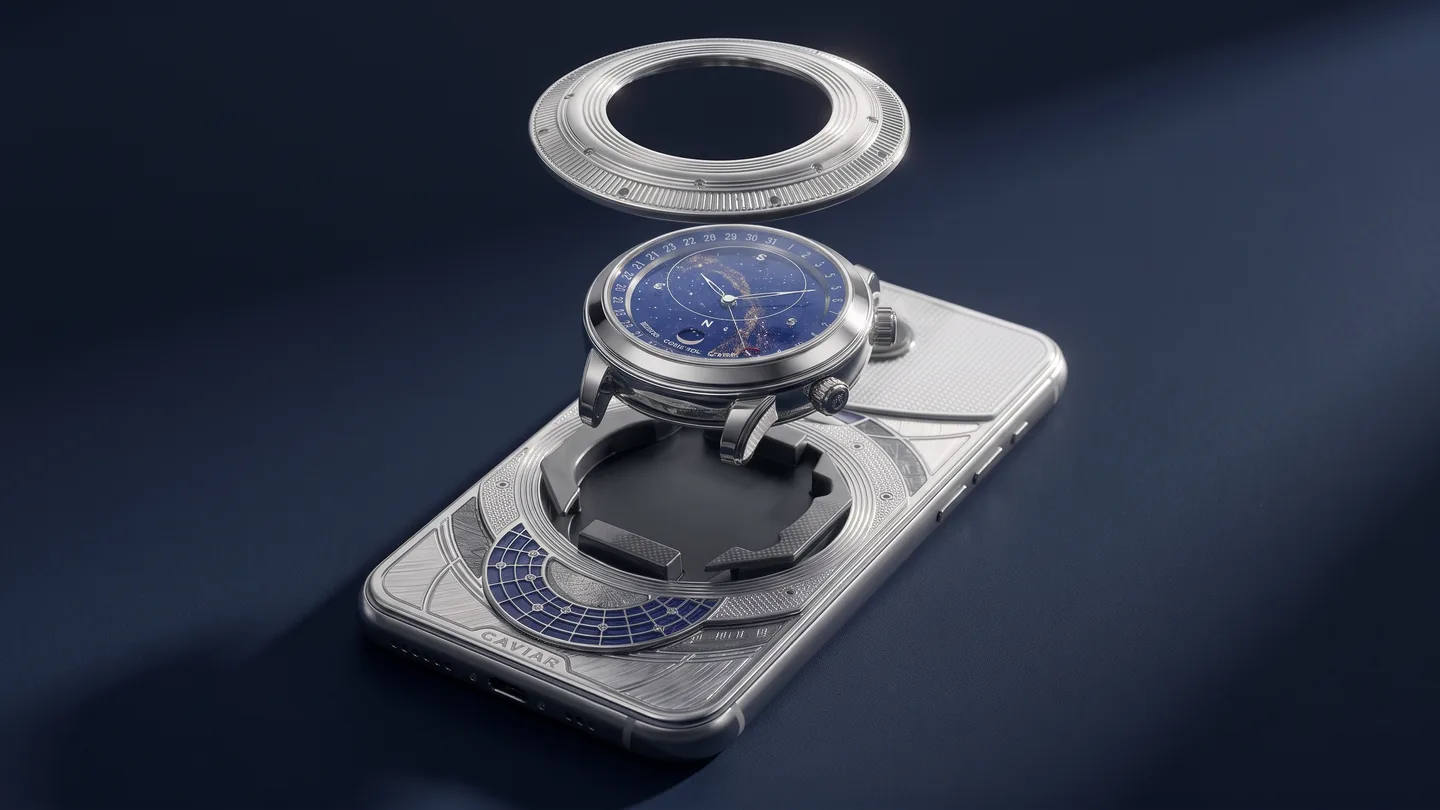
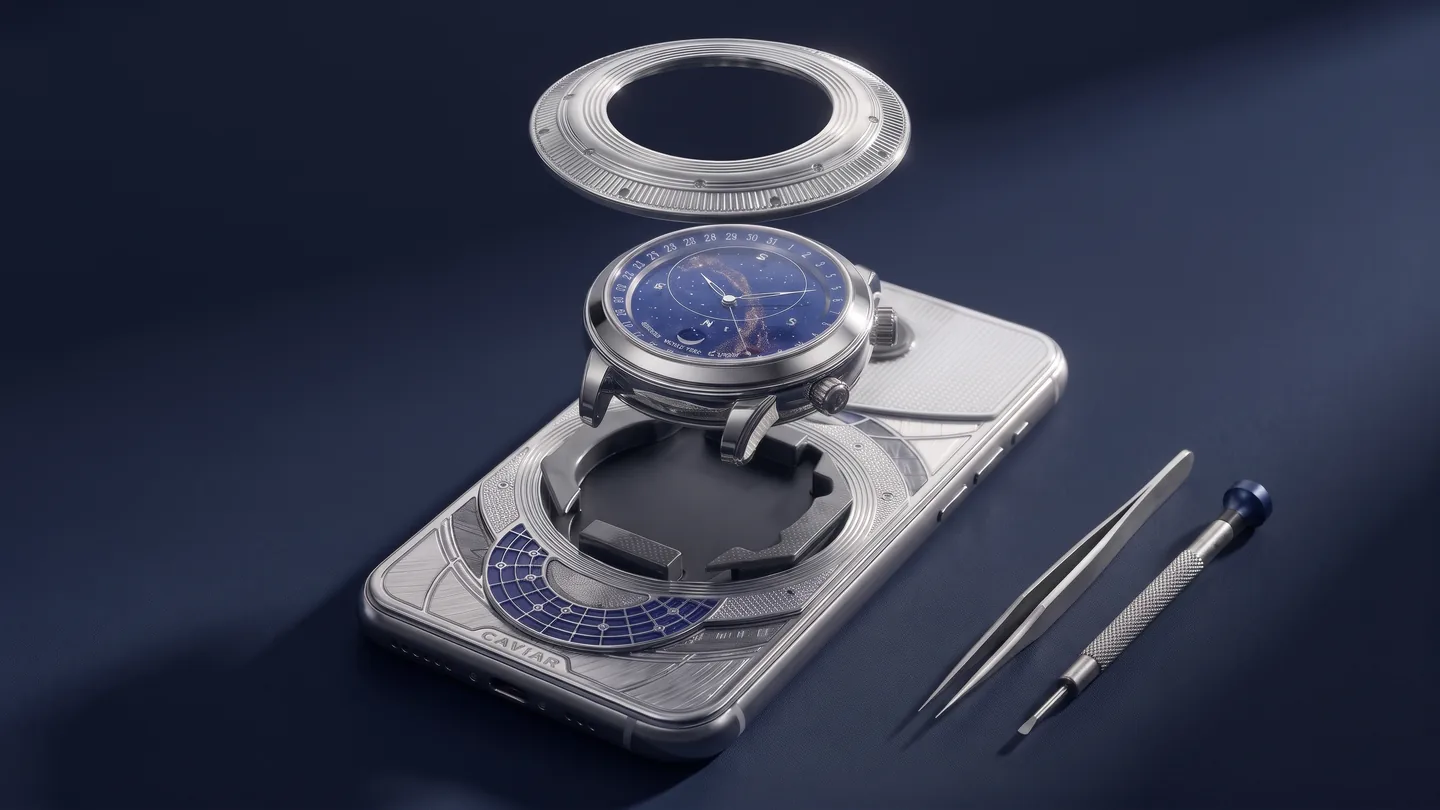
Add watchmaker tools and specify the holiday gift certificate

diff --git a/holiday-privileges-2026/index.html b/holiday-privileges-2026/index.html
@@ -22,7 +22,7 @@
 .catalog-card span{font-size:13px;font-weight:700;text-decoration:underline}
 .catalog-card:hover{border-color:var(--gold)}
 .catalog-link{margin-top:24px;display:flex;justify-content:center}.bespoke{display:grid;grid-template-columns:1fr 1fr;min-height:370px;background:var(--navy);color:#fff}.bespoke-visual{position:relative;min-width:0;min-height:0;aspect-ratio:16/9;overflow:hidden;background:#101a2a}
-.bespoke-visual img{position:absolute;inset:0;width:100%;height:100%;object-fit:cover}.bespoke-copy{padding:clamp(35px,5vw,75px);align-self:center}.bespoke-copy .eyebrow{color:var(--gold-light);margin-bottom:12px}.bespoke-copy p:not(.eyebrow){color:#d6dbe2;margin:18px 0 25px;max-width:430px}.certificate{display:grid;grid-template-columns:1fr 1fr;gap:clamp(25px,5vw,80px);align-items:center}.certificate img{aspect-ratio:4/3;object-fit:cover}.certificate .eyebrow{margin-bottom:10px}.certificate p:not(.eyebrow){color:#62666c;max-width:470px;margin:16px 0 25px}.consult{background:var(--paper);text-align:center}.consult h2{margin:12px 0}.consult p:not(.eyebrow){max-width:600px;margin:auto;color:#656971}.contact-actions{display:flex;flex-wrap:wrap;justify-content:center;gap:12px;margin-top:25px}.terms{border-top:1px solid var(--line);margin-top:32px;text-align:left;max-width:800px;margin-inline:auto}.terms summary{padding:17px 0;font-weight:700;cursor:pointer;font-size:14px}.terms p{font-size:13px;max-width:none!important;text-align:left;margin-bottom:10px!important}.footer{display:flex;justify-content:space-between;align-items:center;gap:20px;padding:24px var(--pad);background:white;border-top:1px solid var(--line);font-size:12px;color:#666}.footer a{font-weight:700}.footer img{width:62px;height:50px;object-fit:contain}.skip{position:absolute;top:-100px;background:white;padding:10px;z-index:5}.skip:focus{top:5px}@media(max-width:880px){.header-nav{display:none}.section-heading{display:block}.section-heading>p{margin-top:13px}.gift-grid{gap:12px}.gift-body{padding:17px}.gift-body h3{font-size:22px}}@media(max-width:760px){.catalog-grid,.bespoke{grid-template-columns:1fr}}
+.bespoke-visual img{position:absolute;inset:0;width:100%;height:100%;object-fit:contain}.bespoke-copy{padding:clamp(35px,5vw,75px);align-self:center}.bespoke-copy .eyebrow{color:var(--gold-light);margin-bottom:12px}.bespoke-copy p:not(.eyebrow){color:#d6dbe2;margin:18px 0 25px;max-width:430px}.certificate{display:grid;grid-template-columns:1fr 1fr;gap:clamp(25px,5vw,80px);align-items:center}.certificate img{aspect-ratio:4/3;object-fit:cover}.certificate .eyebrow{margin-bottom:10px}.certificate p:not(.eyebrow){color:#62666c;max-width:470px;margin:16px 0 25px}.consult{background:var(--paper);text-align:center}.consult h2{margin:12px 0}.consult p:not(.eyebrow){max-width:600px;margin:auto;color:#656971}.contact-actions{display:flex;flex-wrap:wrap;justify-content:center;gap:12px;margin-top:25px}.terms{border-top:1px solid var(--line);margin-top:32px;text-align:left;max-width:800px;margin-inline:auto}.terms summary{padding:17px 0;font-weight:700;cursor:pointer;font-size:14px}.terms p{font-size:13px;max-width:none!important;text-align:left;margin-bottom:10px!important}.footer{display:flex;justify-content:space-between;align-items:center;gap:20px;padding:24px var(--pad);background:white;border-top:1px solid var(--line);font-size:12px;color:#666}.footer a{font-weight:700}.footer img{width:62px;height:50px;object-fit:contain}.skip{position:absolute;top:-100px;background:white;padding:10px;z-index:5}.skip:focus{top:5px}@media(max-width:880px){.header-nav{display:none}.section-heading{display:block}.section-heading>p{margin-top:13px}.gift-grid{gap:12px}.gift-body{padding:17px}.gift-body h3{font-size:22px}}@media(max-width:760px){.catalog-grid,.bespoke{grid-template-columns:1fr}}
 @media(max-width:650px){.site-header{height:68px}.brand img{width:60px;height:49px}
 .hero{min-height:0;flex-direction:column;background-position:right top}
 .hero::before{background:linear-gradient(0deg,#101925 0%,rgba(16,25,37,.94) 43%,transparent 85%)}
@@ -36,7 +36,7 @@
 <section class="hero" aria-labelledby="hero-title"><img class="hero-package" src="assets/holiday-hero-package.webp" alt="Смартфон Caviar в открытом синем футляре с фирменной подарочной упаковкой" width="966" height="1053" fetchpriority="high"><div class="hero-content"><p class="eyebrow">Caviar · Festive Season 2026</p><h1 id="hero-title">Новогодние<br>привилегии</h1><p class="lead">В этом декабре Caviar дарит больше.</p><p class="intro">Приобретите смартфон Caviar и выберите один из подарков, подготовленных к праздничному сезону.</p><a class="btn gold" href="#gifts">Выбрать подарок</a><p class="dates">С 1 по 31 декабря 2026 года*</p></div></section>
 <nav class="subnav" aria-label="Разделы страницы"><a href="#gifts">Подарки на выбор</a><a href="#catalog">Рекомендации Caviar</a><a href="#bespoke">Индивидуальный дизайн</a><a href="#certificate">Сертификаты</a></nav>
 <section class="section" id="gifts"><div class="wrap"><div class="section-heading"><div><p class="eyebrow">Праздничные привилегии</p><h2>Выберите свой подарок</h2></div><p>В декабре мы подготовили для клиентов Caviar несколько вариантов подарков. Выберите тот, который предпочтёте получить вместе со смартфоном.</p></div><div class="gift-grid" role="group" aria-label="Выбор подарка">
-<article class="gift"><img class="gift-photo" src="assets/holiday-certificate-card.webp" alt="Белый подарочный сертификат Caviar Royal Gift" loading="lazy" width="640" height="480"><div class="gift-body"><p class="eyebrow">01 / Свобода выбора</p><h3>Подарочный сертификат</h3><p>Сертификат Caviar на определённую сумму. Его можно преподнести близкому человеку.</p><button class="select-gift" type="button" data-gift="Подарочный сертификат Caviar" aria-pressed="false">Выбрать сертификат</button></div></article>
+<article class="gift"><img class="gift-photo" src="assets/holiday-certificate-card.webp" alt="Белый подарочный сертификат Caviar Royal Gift" loading="lazy" width="640" height="480"><div class="gift-body"><p class="eyebrow">01 / Свобода выбора</p><h3>Подарочный сертификат</h3><p><strong>50&nbsp;000&nbsp;₽</strong> на следующую покупку в Caviar.</p><button class="select-gift" type="button" data-gift="Сертификат Caviar на 50 000 ₽ на следующую покупку" aria-pressed="false">Выбрать сертификат</button></div></article>
 <article class="gift"><img class="gift-photo" src="assets/holiday-gastronomic-set.webp" alt="Визуализация подарочного набора с чёрной икрой" loading="lazy" width="920" height="690"><div class="gift-body"><p class="eyebrow">02 / К праздничному столу</p><h3>Гастрономический комплект</h3><p>Подарочный набор с икрой для новогоднего вечера. Состав можно уточнить у персонального менеджера.</p><button class="select-gift" type="button" data-gift="Гастрономический комплект" aria-pressed="false">Выбрать комплект</button></div></article>
 <article class="gift"><img class="gift-photo" src="https://d8j0ntlcm91z4.cloudfront.net/user_2wifGxYSnr67bMinTS1AHmL1f8V/hf_20261124_124555_74a0dfe9-f50a-4549-bea3-6069f19006de.png" alt="Фирменная тёмно-синяя ручка Caviar с золотистыми деталями в футляре" loading="lazy" width="1200" height="900"><div class="gift-body"><p class="eyebrow">03 / Личный аксессуар</p><h3>Ручка Caviar</h3><p>Фирменная ручка глубокого синего цвета с золотистыми деталями в элегантном футляре.</p><button class="select-gift" type="button" data-gift="Ручка Caviar" aria-pressed="false">Выбрать ручку</button></div></article>
 </div><div class="selection"><div aria-live="polite"><strong id="selected">Ваш новогодний подарок</strong><p id="selected-note">Выберите предпочтительный подарок или обсудите варианты с менеджером.</p></div><div class="gift-channels">
@@ -47,7 +47,7 @@
   </div>
   <p class="max-message-status" id="max-message-status" role="status" hidden>При открытии MAX текст скопируется. Вставьте его в чат.</p>
   <textarea class="max-message" id="max-message" aria-label="Сообщение для MAX" rows="3" readonly hidden></textarea>
-</div></div><p class="fine">* Доступные подарки, номиналы сертификатов и условия получения зависят от заказа. Подробности уточняйте у менеджера Caviar.</p></div></section>
+</div></div><p class="fine">* Доступность подарков и условия их получения зависят от заказа. Подробности уточняйте у менеджера Caviar.</p></div></section>
 <section class="section recommend" id="catalog">
   <div class="wrap">
     <div class="section-heading">
@@ -83,10 +83,10 @@
   </div>
 </section>
 <section class="bespoke" id="bespoke"><div class="bespoke-visual">
-  <img src="assets/bespoke-assembly.webp" alt="Сборка индивидуального смартфона Caviar с синим часовым модулем и серебристым безелем" width="1440" height="810" loading="lazy">
+  <img src="assets/bespoke-assembly.webp?v=56ca2f4" alt="Сборка индивидуального смартфона Caviar с часовым модулем. Рядом часовой пинцет и прецизионная отвёртка." width="1440" height="810" loading="lazy">
 </div><div class="bespoke-copy"><p class="eyebrow">Caviar Bespoke</p><h2>Подарок в единственном экземпляре</h2><p>Семейный герб, инициалы или символ, значимый для близкого человека. Мастера Caviar создадут индивидуальный дизайн на основе ваших пожеланий.</p><a class="btn gold" href="https://caviar-phones.ru/bespoke/inspiration/">Создать свой Caviar</a></div></section>
 <section class="section" id="certificate"><div class="wrap certificate"><img src="assets/holiday-certificate-detail.webp" alt="Белый подарочный сертификат Caviar Royal Gift" loading="lazy" width="960" height="720"><div><p class="eyebrow">Подарочный сертификат Caviar</p><h2>Оставьте выбор за ним. Или за ней.</h2><p>Если вы хотите подарить Caviar, но ещё не определились с дизайном, оформите сертификат на конкретную модель или сумму. Получатель сможет выбрать свой смартфон.</p><a class="btn dark" href="https://caviar-phones.ru/best-sellers/gift-certificate_id28773">Оформить сертификат</a></div></div></section>
-<section class="section consult" id="contact"><div class="wrap"><p class="eyebrow">Персональный сервис</p><h2>Подготовим ваш подарок к празднику</h2><p>Менеджер Caviar поможет подобрать смартфон, уточнить сроки изготовления и условия новогоднего предложения.</p><div class="contact-actions"><a class="btn dark" href="tel:+79101040490">+7 (910) 104-04-90</a><a class="btn outline" href="https://max.ru/u/f9LHodD0cOKNTjR24U3SrBr77iq-IJ02acnq_0q9-OIiOWoy6e-uougUpjY" target="_blank" rel="noopener">MAX</a><a class="btn outline" href="https://t.me/Caviar_Russia_officiall" target="_blank" rel="noopener">Telegram</a><a class="btn outline" href="https://wa.me/79101040490" target="_blank" rel="noopener">WhatsApp</a></div><details class="terms"><summary>Условия новогоднего предложения</summary><p>Предварительный период предложения: 1–31 декабря 2026 года. Подарок предоставляется при приобретении смартфона Caviar на условиях кампании. Доступность подарков, номиналы сертификатов и сроки получения уточняются при оформлении заказа.</p><p>Изображения носят иллюстративный характер. Окончательные условия предложения согласовываются отдельно.</p></details></div></section>
+<section class="section consult" id="contact"><div class="wrap"><p class="eyebrow">Персональный сервис</p><h2>Подготовим ваш подарок к празднику</h2><p>Менеджер Caviar поможет подобрать смартфон, уточнить сроки изготовления и условия новогоднего предложения.</p><div class="contact-actions"><a class="btn dark" href="tel:+79101040490">+7 (910) 104-04-90</a><a class="btn outline" href="https://max.ru/u/f9LHodD0cOKNTjR24U3SrBr77iq-IJ02acnq_0q9-OIiOWoy6e-uougUpjY" target="_blank" rel="noopener">MAX</a><a class="btn outline" href="https://t.me/Caviar_Russia_officiall" target="_blank" rel="noopener">Telegram</a><a class="btn outline" href="https://wa.me/79101040490" target="_blank" rel="noopener">WhatsApp</a></div><details class="terms"><summary>Условия новогоднего предложения</summary><p>Предварительный период предложения: 1–31 декабря 2026 года. Подарок предоставляется при приобретении смартфона Caviar на условиях кампании. Подарочный сертификат по акции действует на следующую покупку в Caviar. Его номинал составляет 50&nbsp;000&nbsp;₽. Доступность подарков и сроки получения уточняются при оформлении заказа.</p><p>Изображения носят иллюстративный характер. Окончательные условия предложения согласовываются отдельно.</p></details></div></section>
 </main><footer class="footer"><a href="https://caviar-phones.ru/" aria-label="Главная Caviar"><img src="../most-wanted-landing/assets/caviar.svg" alt="Caviar" width="62" height="50"></a><span>© Caviar 2026</span><a href="https://caviar-phones.ru/info/contacts/">Контакты</a></footer>
 <script>
 const giftButtons = [...document.querySelectorAll('.select-gift')];
